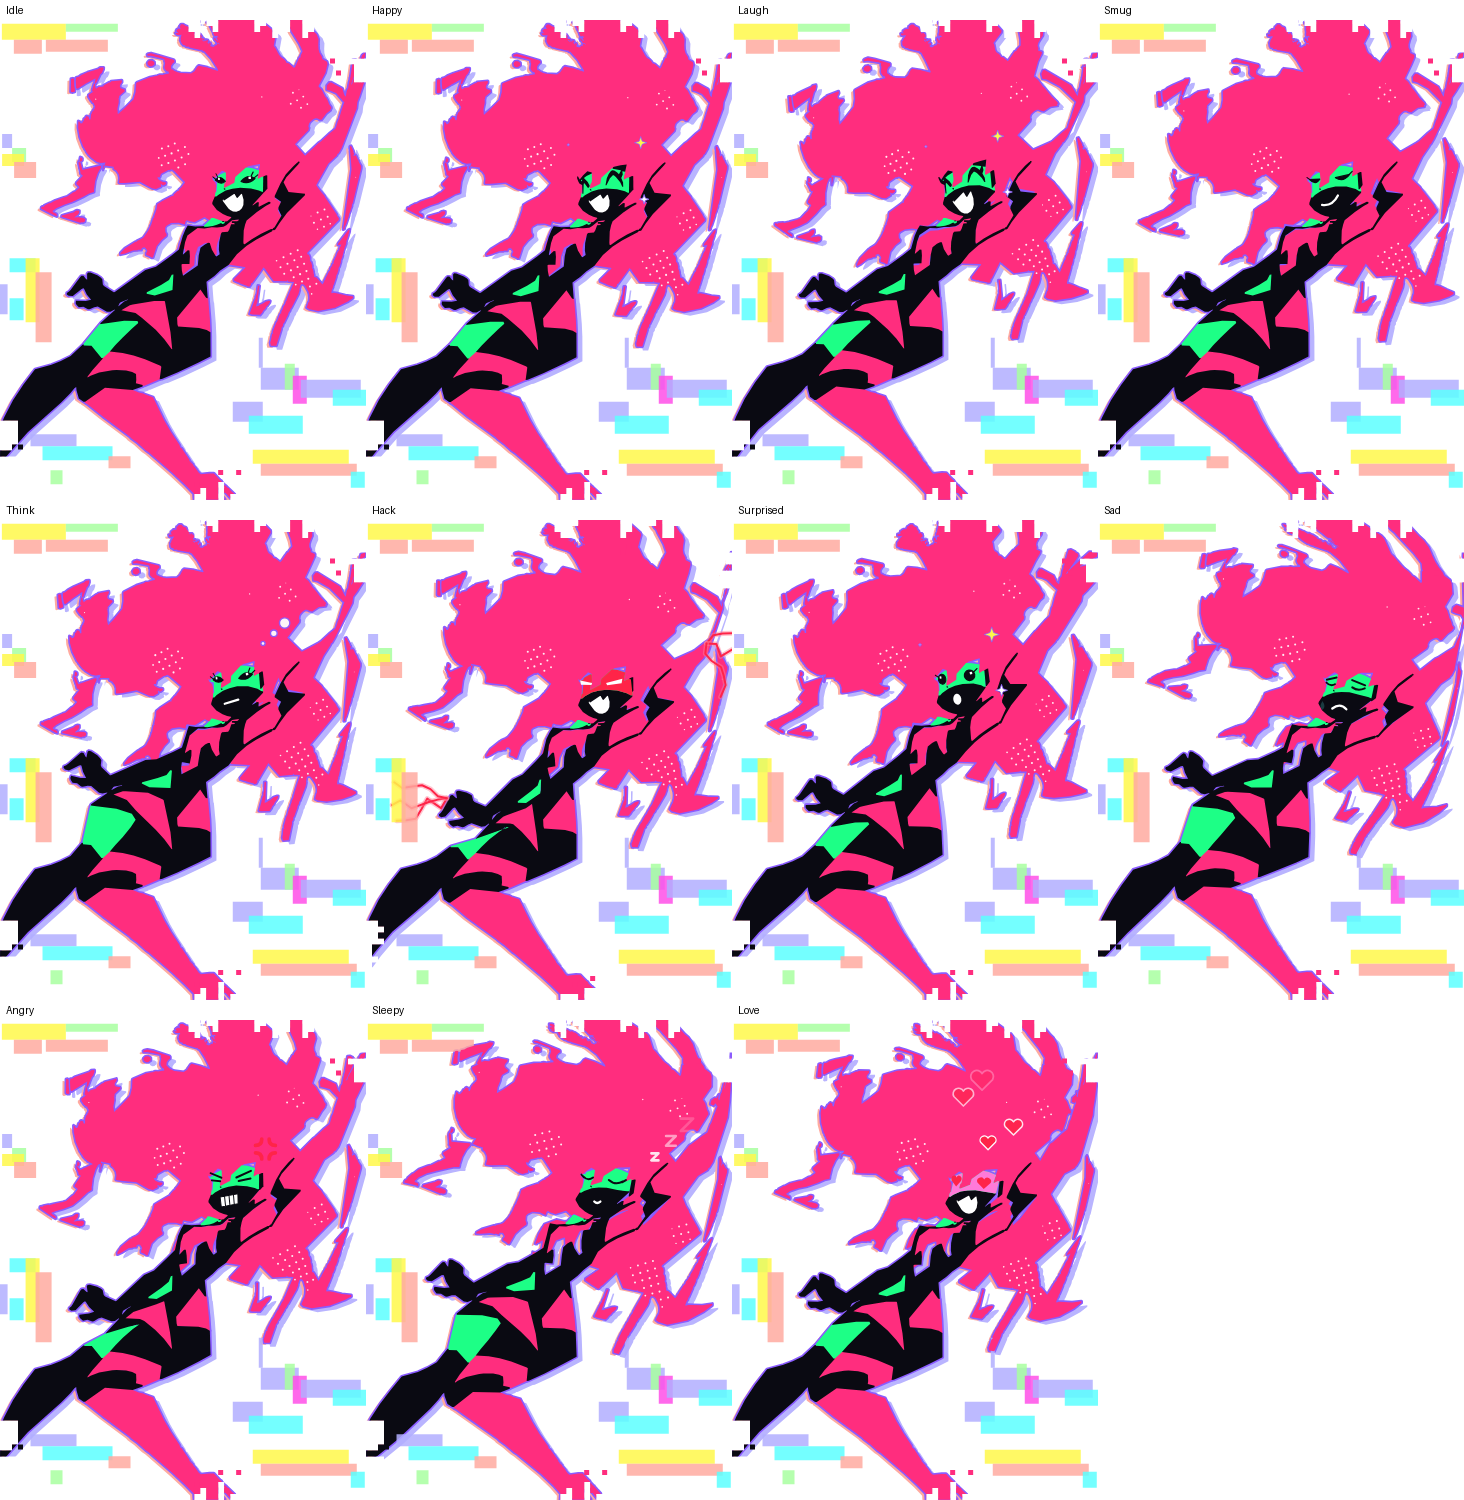
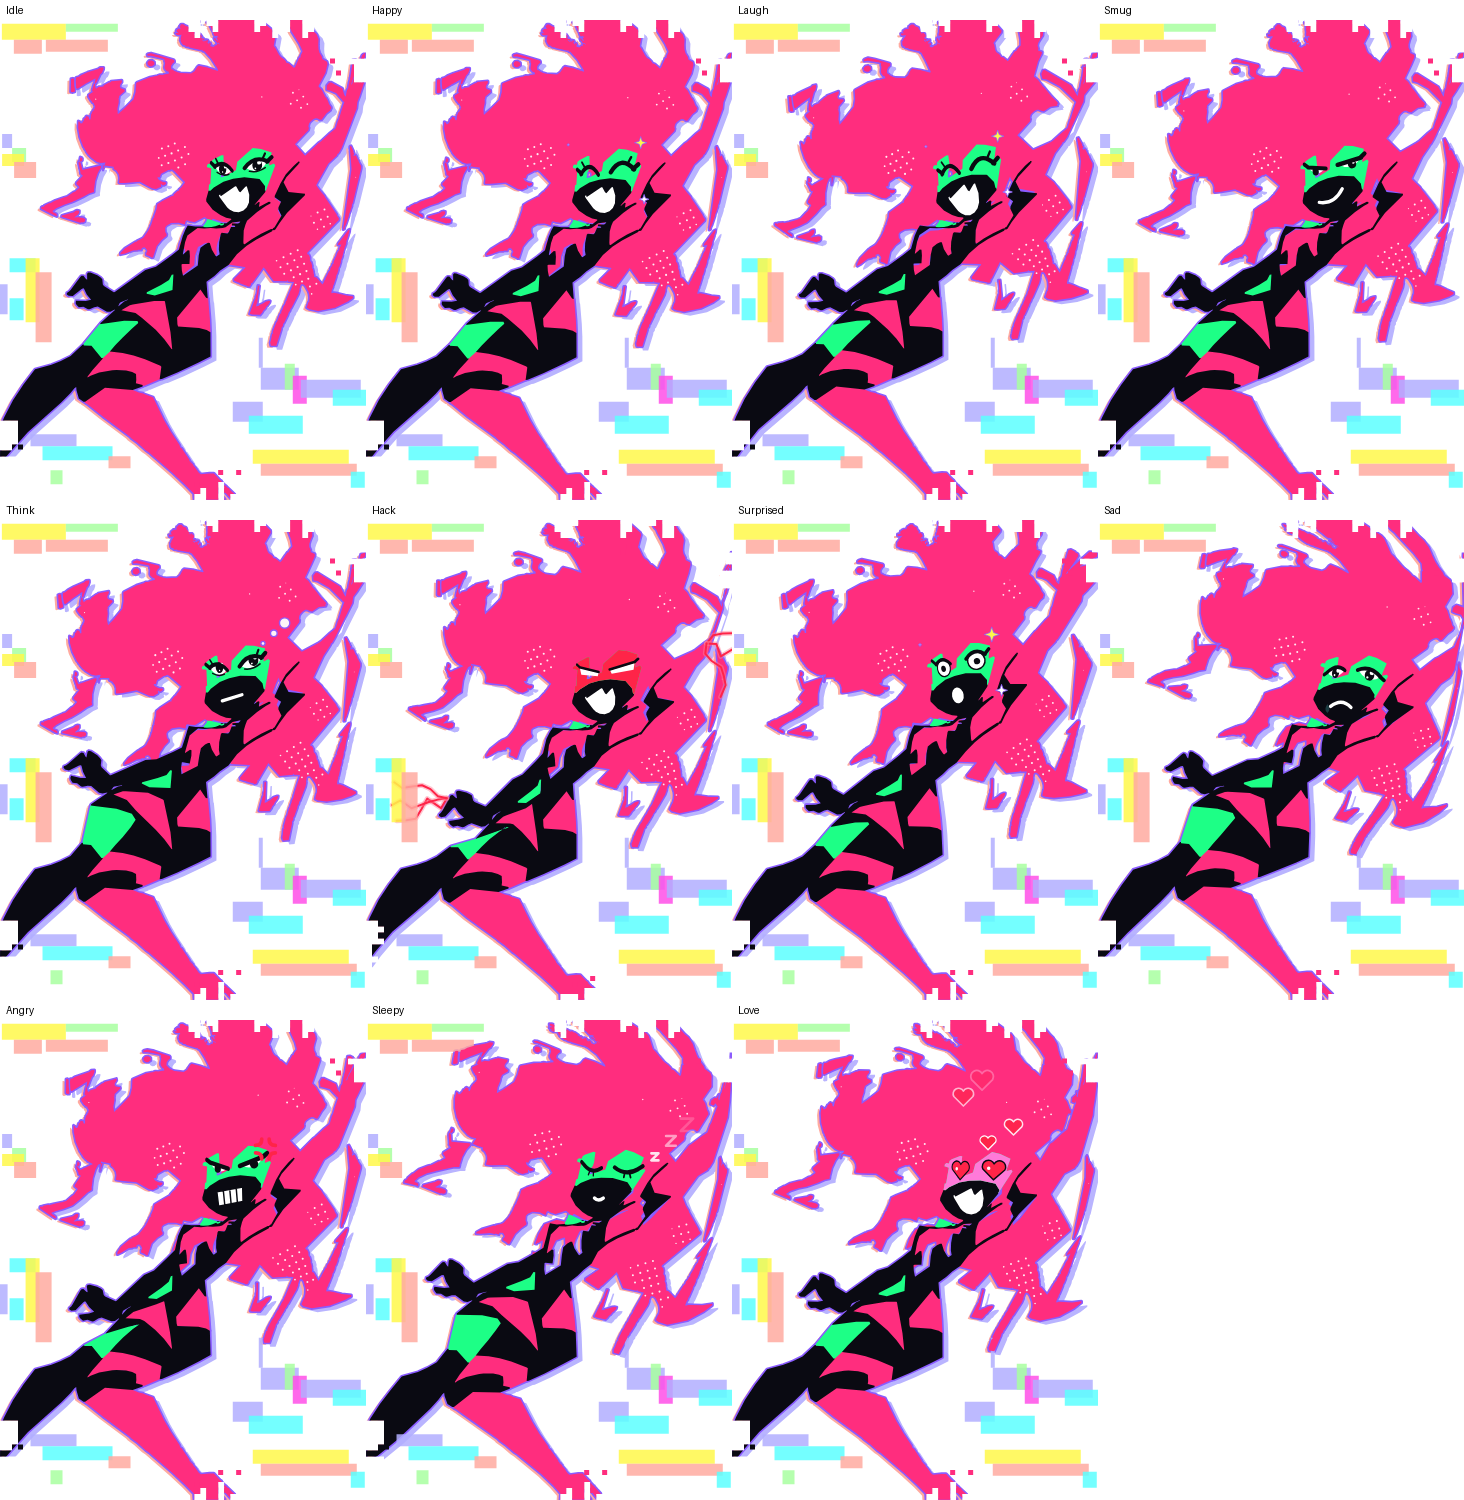
Bigger, readable face with anime-style eyes
At desktop-pet size the traced head was ~45 px and its thin traced
"^ ^" lash shapes read as stray marks. The face area now rides its own
bone, scaled 1.45x, with influence limited to vertices that already
belong to the head so the mane and raised sleeve keep their shape.
Eyes are redrawn per mood: white almond, glossy iris that follows the
cursor, thick upper lid with a wing and lashes. The far eye is mirrored
and foreshortened to match the three-quarter head turn.

Claude-Session: https://claude.ai/code/session_01B7ChZq1RDi7Puq2k9oYUNs

diff --git a/src/Capricon.Core/Avatar/CapriAnimator.cs b/src/Capricon.Core/Avatar/CapriAnimator.cs
@@ -51,6 +51,9 @@ public sealed class CapriAnimator
 
     public Mood Mood { get; set; } = Mood.Idle;
 
+    /// <summary>How much bigger than in the reference art the face is drawn (readability at pet size).</summary>
+    public double FaceScale { get; set; } = 1.45;
+
     /// <summary>Voice loudness 0..1 (from TTS visemes). Smoothed internally.</summary>
     public double TalkLevel { get; set; }
 
@@ -164,6 +167,12 @@ public sealed class CapriAnimator
                           _ => 0,
                       };
             if (LookAt is { } look) p.Angle += Math.Clamp((look.X - CapriModel.HairX) / 50, -5, 5);
+            return p;
+        });
+
+        Set("face", p =>
+        {
+            p.ScaleX = p.ScaleY = FaceScale;
             return p;
         });
 
@@ -289,13 +298,8 @@ public sealed class CapriAnimator
     void AddFace(Frame frame, double t)
     {
         var (eyes, mouth) = Expression();
-        var head = _world[_model.BoneIndex("head")];
+        var face = _world[_model.BoneIndex("face")];
         var visorColor = Mood switch { Mood.Hack => CapriModel.Red, Mood.Love => "#FF7AD9", _ => CapriModel.Green };
-        var traced = eyes == "happy" && visorColor == CapriModel.Green;
-
-        var d = 0;
-        foreach (var detail in _model.FaceDetails)
-            frame.Items.Add(new DrawItem($"facedetail{d++}", CapriModel.Ink, 1) { Rings = SkinRings(detail, t) });
 
         if (visorColor != CapriModel.Green)
         {
@@ -304,37 +308,31 @@ public sealed class CapriAnimator
                 frame.Items.Add(new DrawItem($"visor{v++}", visorColor, 1) { Rings = SkinRings(piece, t) });
         }
 
-        if (traced)
+        var look = LookAt is { } la
+            ? (Math.Clamp((la.X - CapriModel.FaceX) / 90, -1.3, 1.3), Math.Clamp((la.Y - CapriModel.FaceY) / 110, -1, 1))
+            : (0.0, 0.0);
+        if (Mood == Mood.Think) look = (1.3, -1.2);
+
+        foreach (var (cx, cy, near) in new[] { (CapriModel.EyeLX, CapriModel.EyeLY, false), (CapriModel.EyeRX, CapriModel.EyeRY, true) })
         {
-            var e = 0;
-            foreach (var eye in _model.Eyes)
-                frame.Items.Add(new DrawItem($"eye{e++}", CapriModel.Ink, 1) { Rings = SkinRings(eye, t) });
-        }
-        else
-        {
-            var (path, fill, stroke) = EyeShape(eyes);
-            foreach (var (cx, cy, right) in new[] { (CapriModel.EyeLX, CapriModel.EyeLY, false), (CapriModel.EyeRX, CapriModel.EyeRY, true) })
+            // Shapes are drawn for the near (right) eye with its outer corner towards +x; the far
+            // eye is mirrored and foreshortened by the three-quarter turn of the head.
+            var place = Mat.Rotate(CapriModel.FaceTilt) * Mat.Translate(cx, cy) * face;
+            var shape = near ? Mat.Identity : Mat.Scale(-0.74, 0.96);
+            var light = near ? Mat.Identity : Mat.Scale(0.74, 0.96);
+            var n = 0;
+            foreach (var layer in EyeLayers(eyes))
             {
-                var look = LookAt is { } la ? (Math.Clamp((la.X - cx) / 80, -1.5, 1.5), Math.Clamp((la.Y - cy) / 100, -1, 1)) : (0.0, 0.0);
-                if (Mood == Mood.Think) look = (1.5, -1.5);
-                // Shapes are drawn for the right eye (outer corner +x); the far eye is mirrored and foreshortened.
-                var local = (right ? Mat.Identity : Mat.Scale(-0.72, 0.95))
-                            * Mat.Rotate(CapriModel.FaceTilt)
-                            * Mat.Translate(cx + look.Item1, cy + look.Item2)
-                            * head;
-                frame.Items.Add(new DrawItem($"eyes.{eyes}.{(right ? "r" : "l")}", fill, 1)
+                // Highlights are never mirrored so both eyes catch the light from the same side.
+                var m = layer.Highlight ? light : shape;
+                if (layer.Pupil) m *= Mat.Translate(look.Item1, look.Item2);
+                frame.Items.Add(new DrawItem($"eye.{eyes}.{(near ? "r" : "l")}{n++}", layer.Fill, 1)
                 {
-                    Path = path,
-                    Transform = local,
-                    Stroke = stroke,
-                    StrokeWidth = stroke is null ? 0 : fill == Fills.None ? 2 : 1.2,
+                    Path = layer.Path,
+                    Transform = m * place,
+                    Stroke = layer.Stroke,
+                    StrokeWidth = layer.Width,
                 });
-                if (eyes is "open" or "round")
-                    frame.Items.Add(new DrawItem($"glint.{(right ? "r" : "l")}", CapriModel.White, 1)
-                    {
-                        Path = "M 0.6,-3.2 L 3,-3.2 L 3,-0.8 L 0.6,-0.8 Z",
-                        Transform = local,
-                    });
             }
         }
 
@@ -350,7 +348,7 @@ public sealed class CapriAnimator
             frame.Items.Add(new DrawItem($"mouth.{mouth}", fill, 1)
             {
                 Path = path,
-                Transform = Mat.Rotate(CapriModel.FaceTilt) * Mat.Translate(CapriModel.MouthX, CapriModel.MouthY) * head,
+                Transform = Mat.Rotate(CapriModel.FaceTilt) * Mat.Translate(CapriModel.MouthX, CapriModel.MouthY) * face,
                 Stroke = stroke,
                 StrokeWidth = stroke is null ? 0 : mouth == "teeth" ? 1 : 2.3,
             });
@@ -372,24 +370,80 @@ public sealed class CapriAnimator
             Mood.Love => ("heart", "grin"),
             _ => ("open", "grin"),
         };
-        if (_time < _blinkUntil && eyes is "open" or "smug" or "round" or "slit") eyes = "closed";
+        if (_time < _blinkUntil && eyes is "open" or "smug" or "round" or "sad" or "angry") eyes = "closed";
         if (_talk > 0.04 && mouth is not ("grin" or "o" or "teeth")) mouth = "talk";
         return (eyes, mouth);
     }
 
-    /// <summary>Eye drawings for the near (right) eye, outer corner towards +x, lashes included.</summary>
-    static (string Path, string Fill, string? Stroke) EyeShape(string eyes) => eyes switch
+    readonly record struct EyeLayer(string Path, string Fill, string? Stroke = null, double Width = 0, bool Pupil = false, bool Highlight = false);
+
+    const string Ink = CapriModel.Ink;
+    const string White = CapriModel.White;
+
+    // Bold anime eyes for the near eye: white almond, big glossy iris, thick upper lid with a
+    // flicked wing and a lash. All in a local frame centred on the eye, ~16 units wide.
+    static readonly Dictionary<string, EyeLayer[]> Eyes = new()
     {
-        "open" => ("M -7,1 Q 0,-6.5 7,-1 Q 0,5 -7,1 Z M 6,-1.5 L 10,-4.5 M 3.5,-4 L 5.5,-7.5", CapriModel.Ink, CapriModel.Ink),
-        "closed" => ("M -7,-0.5 Q 0,4.5 7,-0.5 M 6.2,0.4 L 9.8,-2.2", Fills.None, CapriModel.Ink),
-        "smug" => ("M -7,-1.5 L 7.5,-2.6 Q 0,4.8 -7,-1.5 Z M 7,-2.6 L 10.5,-5.2", CapriModel.Ink, CapriModel.Ink),
-        "round" => ("M -5.2,0 A 5.2,5.2 0 1 1 5.2,0 A 5.2,5.2 0 1 1 -5.2,0 Z M 4.6,-2.6 L 8.4,-5.4", CapriModel.Ink, CapriModel.Ink),
-        "sad" => ("M -7,-5.2 L 6.5,-1.6 M -6,2 Q 0,5.4 6.5,1.4", Fills.None, CapriModel.Ink),
-        "angry" => ("M -7.5,-0.8 L 7.5,-6.4 M -5.5,2.8 L 6.5,1.2", Fills.None, CapriModel.Ink),
-        "slit" => ("M -8,0.6 L 8.5,-2.6 L 7.5,1.8 L -7,2.8 Z", CapriModel.White, null),
-        "heart" => ("M 0,5.6 L -6.6,-0.6 A 3.3,3.3 0 0 1 0,-3.8 A 3.3,3.3 0 0 1 6.6,-0.6 Z", CapriModel.Red, null),
-        _ => ("M -7,2 L 0,-4 L 7,1.5 M 6.2,1 L 9.6,-2", Fills.None, CapriModel.Ink),
+        ["open"] =
+        [
+            new("M -7.6,0.6 Q -1,-7.2 7.6,-2.6 Q 1,7.2 -7.6,0.6 Z", White),
+            new("M -2.8,-0.6 A 3.4,3.9 0 1 1 4,-0.6 A 3.4,3.9 0 1 1 -2.8,-0.6 Z", Ink, Pupil: true),
+            new("M 0.6,-2.4 A 1.4,1.4 0 1 1 3.4,-2.4 A 1.4,1.4 0 1 1 0.6,-2.4 Z", White, Pupil: true, Highlight: true),
+            new("M -1.4,1.4 A 0.6,0.6 0 1 1 -0.2,1.4 A 0.6,0.6 0 1 1 -1.4,1.4 Z", White, Pupil: true, Highlight: true),
+            new("M -5,3.2 Q 0.5,4.8 6,1.4", Fills.None, Ink, 1.1),
+            new("M -8.2,0.9 Q -1,-7.8 8,-2.8 M 7.4,-2.6 L 10.8,-5.6", Fills.None, Ink, 2.8),
+            new("M 4.4,-4.6 L 6.4,-8.4", Fills.None, Ink, 1.5),
+        ],
+        ["closed"] =
+        [
+            new("M -8,0 Q 0,5.2 8,-0.6 M 7.4,-0.3 L 10.8,-2.8", Fills.None, Ink, 2.8),
+            new("M 2.6,3.4 L 3.4,5.6 M -1,3.8 L -1.2,6", Fills.None, Ink, 1.2),
+        ],
+        ["happy"] =
+        [
+            new("M -8.2,3.2 Q -0.6,-8.4 8,2.2 M 7.2,1.8 L 11,-1.2", Fills.None, Ink, 3),
+            new("M 4.2,-2.8 L 6.4,-6.4", Fills.None, Ink, 1.6),
+        ],
+        ["smug"] =
+        [
+            new("M -7.6,-0.6 L 7.6,-2.8 Q 1,6 -7.6,-0.6 Z", White),
+            new("M -1.4,0.6 A 2.9,2.9 0 1 1 4.4,0.6 A 2.9,2.9 0 1 1 -1.4,0.6 Z", Ink, Pupil: true),
+            new("M 1.6,-0.4 A 0.9,0.9 0 1 1 3.4,-0.4 A 0.9,0.9 0 1 1 1.6,-0.4 Z", White, Pupil: true, Highlight: true),
+            new("M -8.4,-0.4 L 8.2,-3 M 7.6,-2.9 L 11,-5.4", Fills.None, Ink, 3),
+        ],
+        ["round"] =
+        [
+            new("M -6,0 A 6,6 0 1 1 6,0 A 6,6 0 1 1 -6,0 Z", White, Ink, 1),
+            new("M -1.8,0.4 A 2.2,2.2 0 1 1 2.6,0.4 A 2.2,2.2 0 1 1 -1.8,0.4 Z", Ink, Pupil: true),
+            new("M -6.8,-2.4 Q 0,-9.6 6.8,-3.4 M 6.4,-3.4 L 9.8,-6.6", Fills.None, Ink, 2.4),
+        ],
+        ["sad"] =
+        [
+            new("M -7.6,-1.6 Q 0,-5.8 7.6,1.4 Q 0,7.2 -7.6,-1.6 Z", White),
+            new("M -3,0.8 A 3.3,3.7 0 1 1 3.6,0.8 A 3.3,3.7 0 1 1 -3,0.8 Z", Ink, Pupil: true),
+            new("M 0.2,-1 A 1.5,1.5 0 1 1 3.2,-1 A 1.5,1.5 0 1 1 0.2,-1 Z", White, Pupil: true, Highlight: true),
+            new("M -1.8,2.4 A 0.8,0.8 0 1 1 -0.2,2.4 A 0.8,0.8 0 1 1 -1.8,2.4 Z", White, Pupil: true, Highlight: true),
+            new("M -8.2,-1.8 Q 0,-6.4 8.2,1.2 M 7.6,1 L 10.6,3", Fills.None, Ink, 2.6),
+        ],
+        ["angry"] =
+        [
+            new("M -7.6,0.8 L 7.6,-4 Q 2,5.6 -7.6,0.8 Z", White),
+            new("M -1.6,0.2 A 2.9,3.1 0 1 1 4.2,0.2 A 2.9,3.1 0 1 1 -1.6,0.2 Z", Ink, Pupil: true),
+            new("M -8.4,0.8 L 8.4,-4.6 M 7.8,-4.4 L 10.8,-6.6", Fills.None, Ink, 3.2),
+        ],
+        ["slit"] =
+        [
+            new("M -8.6,1 L 8.6,-3.2 L 7.6,1.6 L -7.6,3.4 Z", White),
+            new("M -8.8,0.4 L 9,-3.8 M 8.4,-3.6 L 11.2,-5.8", Fills.None, Ink, 1.8),
+        ],
+        ["heart"] =
+        [
+            new("M 0,6.4 L -7.6,-0.8 A 3.8,3.8 0 0 1 0,-4.6 A 3.8,3.8 0 0 1 7.6,-0.8 Z", CapriModel.Red, Ink, 1),
+            new("M -4.8,-1.4 A 1.2,1.2 0 1 1 -2.4,-1.4 A 1.2,1.2 0 1 1 -4.8,-1.4 Z", White, Highlight: true),
+        ],
     };
+
+    static EyeLayer[] EyeLayers(string eyes) => Eyes.TryGetValue(eyes, out var layers) ? layers : Eyes["open"];
 
     /// <summary>Mouth drawings in a local frame centred on the traced grin.</summary>
     static (string Path, string Fill, string? Stroke) MouthShape(string mouth) => mouth switch

diff --git a/src/Capricon.Core/Avatar/CapriModel.cs b/src/Capricon.Core/Avatar/CapriModel.cs
@@ -23,10 +23,16 @@ public sealed class CapriModel
     public const double HairX = 233, HairY = 150;
 
     // Face landmarks of the traced head (rest pose).
-    // The head is turned three-quarters: the left eye is narrower and sits on its own mask piece.
-    public const double EyeLX = 211, EyeLY = 155, EyeRX = 238.5, EyeRY = 152;
+    // The head is turned three-quarters: the far (left) eye is narrower and sits near the mask's edge.
+    public const double EyeLX = 216.5, EyeLY = 156.5, EyeRX = 239, EyeRY = 152;
     public const double MouthX = 225.5, MouthY = 175.5, MouthTopY = 167;
     public const double FaceTilt = -8;
+
+    /// <summary>
+    /// The face area (head silhouette, mask, eyes, mouth) rides its own bone so it can be drawn
+    /// bigger than in the reference: at desktop-pet size the original head is only ~45 px.
+    /// </summary>
+    public const double FaceX = 228, FaceY = 163, FaceRadiusX = 36, FaceRadiusY = 42;
 
     public static readonly IReadOnlyList<Bone> Bones =
     [
@@ -35,7 +41,8 @@ public sealed class CapriModel
         new("torso", "root", 150, 330, 178, 280),
         new("chest", "torso", 178, 280, 219, 195),
         new("head", "chest", 219, 192, 232, 135),
-        new("jaw", "head", MouthX, MouthTopY, MouthX, MouthTopY + 18),
+        new("face", "head", 224, 184, 228, 140),
+        new("jaw", "face", MouthX, MouthTopY, MouthX, MouthTopY + 18),
         new("armB", "chest", 238, 205, 290, 158),
         new("armB2", "armB", 290, 158, 340, 40),
         new("handB", "armB2", 340, 40, 360, 15),
@@ -54,14 +61,10 @@ public sealed class CapriModel
     /// <summary>Body layers back to front.</summary>
     public IReadOnlyList<SkinnedShape> Shapes { get; }
 
-    /// <summary>Green mask pieces on the face, redrawn over the traced eyes for other expressions.</summary>
+    /// <summary>Green mask pieces on the face, repainted when the mask changes colour.</summary>
     public IReadOnlyList<SkinnedShape> Visor { get; }
 
-    /// <summary>Traced happy "^ ^" eyes with lashes, and the traced open grin.</summary>
-    public IReadOnlyList<SkinnedShape> Eyes { get; }
-
-    /// <summary>Small traced bits of the mask's black edge, drawn with every expression.</summary>
-    public IReadOnlyList<SkinnedShape> FaceDetails { get; }
+    /// <summary>The traced open grin.</summary>
     public IReadOnlyList<SkinnedShape> Mouth { get; }
 
     /// <summary>White spray specks on the mane.</summary>
@@ -93,9 +96,7 @@ public sealed class CapriModel
         }
         Shapes = shapes;
         Visor = visor;
-        var face = data.Eyes.Select(r => Skin(r, Ink, BindHead, ghost: false)).ToList();
-        Eyes = face.Where(IsEye).ToList();
-        FaceDetails = face.Where(f => !IsEye(f)).ToList();
+        // The traced "^ ^" eyes are too thin to read at pet size; the animator draws its own.
         Mouth = data.Mouth.Select(r => Skin(r, White, BindJaw, ghost: false)).ToList();
 
         var pts = new double[data.Specks.Length * 2];
@@ -114,20 +115,11 @@ public sealed class CapriModel
         return new CapriModel(data);
     }
 
-    static bool IsEye(SkinnedShape s)
-    {
-        var xs = s.Rings[0].Where((_, i) => i % 2 == 0).ToArray();
-        var ys = s.Rings[0].Where((_, i) => i % 2 == 1).ToArray();
-        return xs.Max() - xs.Min() > 8 && ys.Max() - ys.Min() > 8 && xs.Max() - xs.Min() > (ys.Max() - ys.Min()) * 0.5;
-    }
-
     // ---------------------------------------------------------------- binding
 
     /// <summary>Pink shapes up top that are not the skin panels on the torso are mane.</summary>
     static bool IsHair(double x, double y) =>
         y < 300 && SegmentDistance(x, y, Bones[3]) > 34 && SegmentDistance(x, y, Bones[2]) > 30;
-
-    Weights BindHead(double x, double y) => Pin(x, y, Weights.Single(_boneIndex["head"]));
 
     Weights BindJaw(double x, double y) => Weights.Single(_boneIndex["jaw"]);
 
@@ -146,7 +138,17 @@ public sealed class CapriModel
     static readonly string[] BodyBones =
         ["torso", "chest", "head", "armB", "armB2", "armF", "armF2", "handF", "legF", "legF2", "legB", "legB2"];
 
-    Weights BindBody(double x, double y) => Pin(x, y, Soft(x, y, BodyBones));
+    Weights BindBody(double x, double y)
+    {
+        // Inside the face oval everything follows the (enlarged) face; it fades out towards the neck.
+        var dx = (x - FaceX) / FaceRadiusX;
+        var dy = (y - FaceY) / FaceRadiusY;
+        var w = Soft(x, y, BodyBones);
+        // Only what already belongs to the head: the raised arm's sleeve right next to it must not grow.
+        var face = Math.Clamp((1.3 - Math.Sqrt(dx * dx + dy * dy)) / 0.35, 0, 1) * w.Share(_boneIndex["head"]);
+        if (face > 0) w = w.Scale(1 - face).Add(Weights.Single(_boneIndex["face"]).Scale(face)).Normalized();
+        return Pin(x, y, w);
+    }
 
     /// <summary>Nearest bones win, with a soft blend across joints.</summary>
     Weights Soft(double x, double y, string[] candidates)
@@ -240,6 +242,9 @@ public readonly record struct Weights
         while (all.Count < 3) all.Add((0, 0));
         return new Weights { B0 = all[0].B, W0 = all[0].W, B1 = all[1].B, W1 = all[1].W, B2 = all[2].B, W2 = all[2].W, Flutter = Math.Max(Flutter, o.Flutter) };
     }
+
+    public double Share(int bone) =>
+        (B0 == bone ? W0 : 0) + (B1 == bone ? W1 : 0) + (B2 == bone ? W2 : 0);
 
     public Weights Normalized()
     {

diff --git a/tests/Capricon.Tests/AvatarTests.cs b/tests/Capricon.Tests/AvatarTests.cs
@@ -11,7 +11,6 @@ public class AvatarTests
     {
         var model = CapriModel.Load();
         Assert.True(model.Shapes.Count >= 15);
-        Assert.NotEmpty(model.Eyes);
         Assert.NotEmpty(model.Mouth);
         Assert.NotEmpty(model.Visor);
 

diff --git a/README.md b/README.md
@@ -16,7 +16,7 @@
 
 - дыхание, парение, наклоны головы, лёгкие движения рук и ног;
 - грива развевается бегущей волной; когда её тащишь мышью, волосы струятся сильнее, а тело раскачивается;
-- 11 эмоций: Idle, Happy, Laugh, Smug, Think, Hack, Surprised, Sad, Angry, Sleepy, Love. Сменные глаза и рот, у маски свой цвет (красная при взломе), эффекты: молнии, Z‑ки, сердечки, слёзы, искры;
+- 11 эмоций: Idle, Happy, Laugh, Smug, Think, Hack, Surprised, Sad, Angry, Sleepy, Love. Крупные аниме‑глаза с ресницами и бликами, сменный рот, у маски свой цвет (красная при взломе), эффекты: молнии, Z‑ки, сердечки, слёзы, искры;
 - моргание, рот синхронизирован с голосом по визмам (формам рта) Windows TTS, взгляд следит за курсором;
 - глитч в фирменном стиле: лавандовая и лососёвая тени, фиолетовый кант, рваные полосы кадра, пастельные пиксель‑блоки. Края, где арт обрезан рамкой, рассыпаются в пиксели.
 
